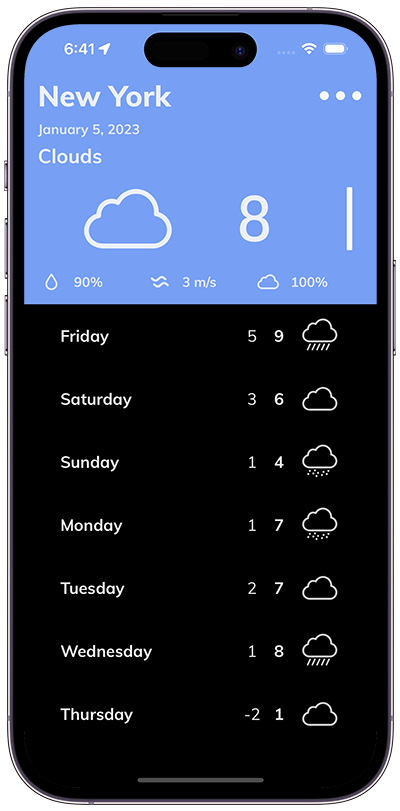
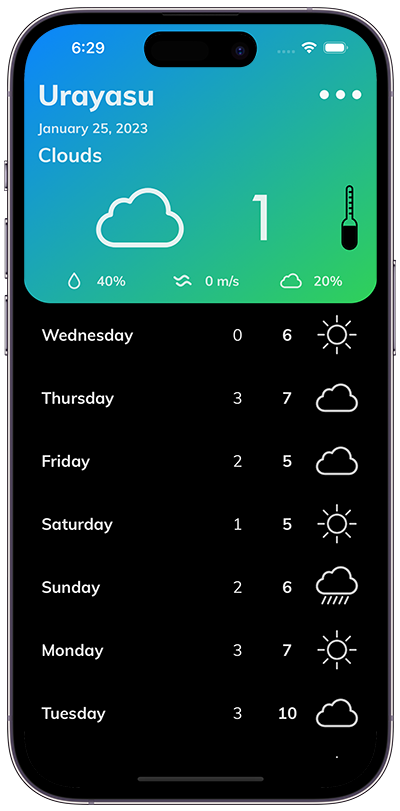
Updated WeatherGPS page

diff --git a/projects/finance-tracker.html b/projects/finance-tracker.html
@@ -114,12 +114,6 @@
 						</p>
 					</div>
 
-					<div class="row shows_row flex_centered home_button">
-						<a href="https://github.com/Andrew11US/iOS-FinanceTracker">
-							<img class="download_button" src="../images/available_on_github_black.svg">
-						</a>
-					</div>
-
 				</div>
 
 				<!-- Screenshot -->

diff --git a/projects/weather-gps.html b/projects/weather-gps.html
@@ -124,7 +124,7 @@
 					<div class="col-lg-4">
 						<div class="show_screenshot trans_400">
 							<div class="show_image">
-								<img class="center-block" src="../images/weather-gps-1.png">
+								<img class="center-block" src="../images/weather-gps-3.png">
 							</div>
 						</div>
 					</div>

diff --git a/styles/main_styles.css b/styles/main_styles.css
@@ -1094,7 +1094,7 @@ section
 	background: #a8d9d7;
 }
 .weather_gps_bg {
-	background: #bed7f5;
+	background: #f5cbea;
 }
 .safe_stay_bg {
 	background: #C1B3EB;
